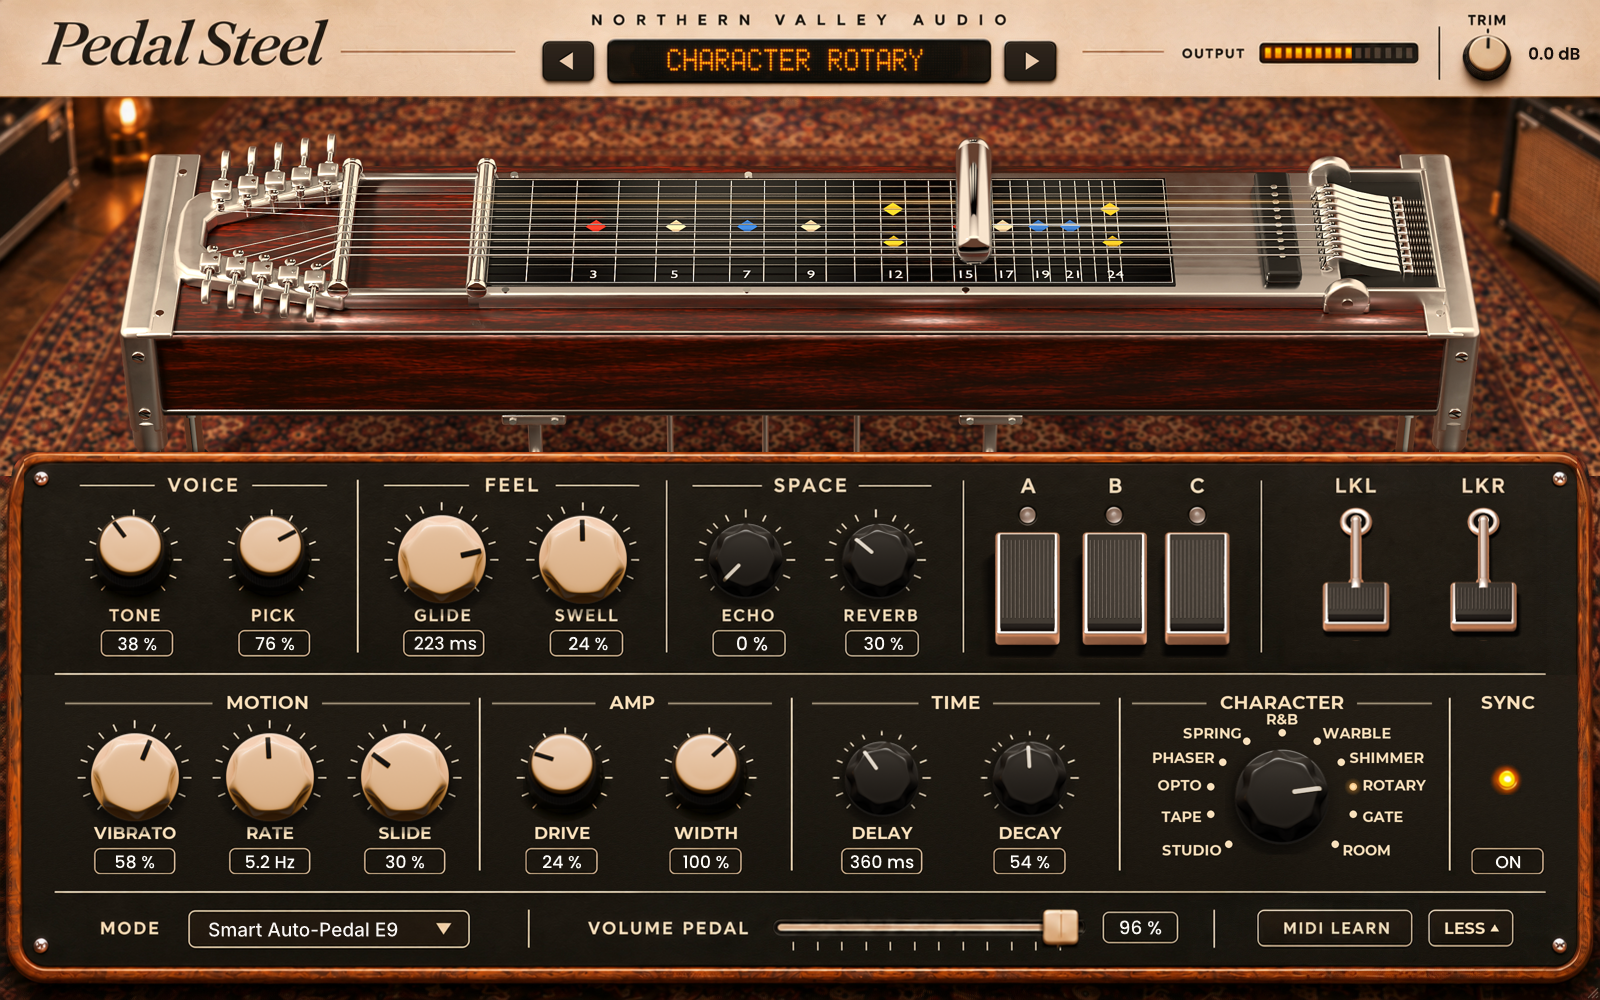
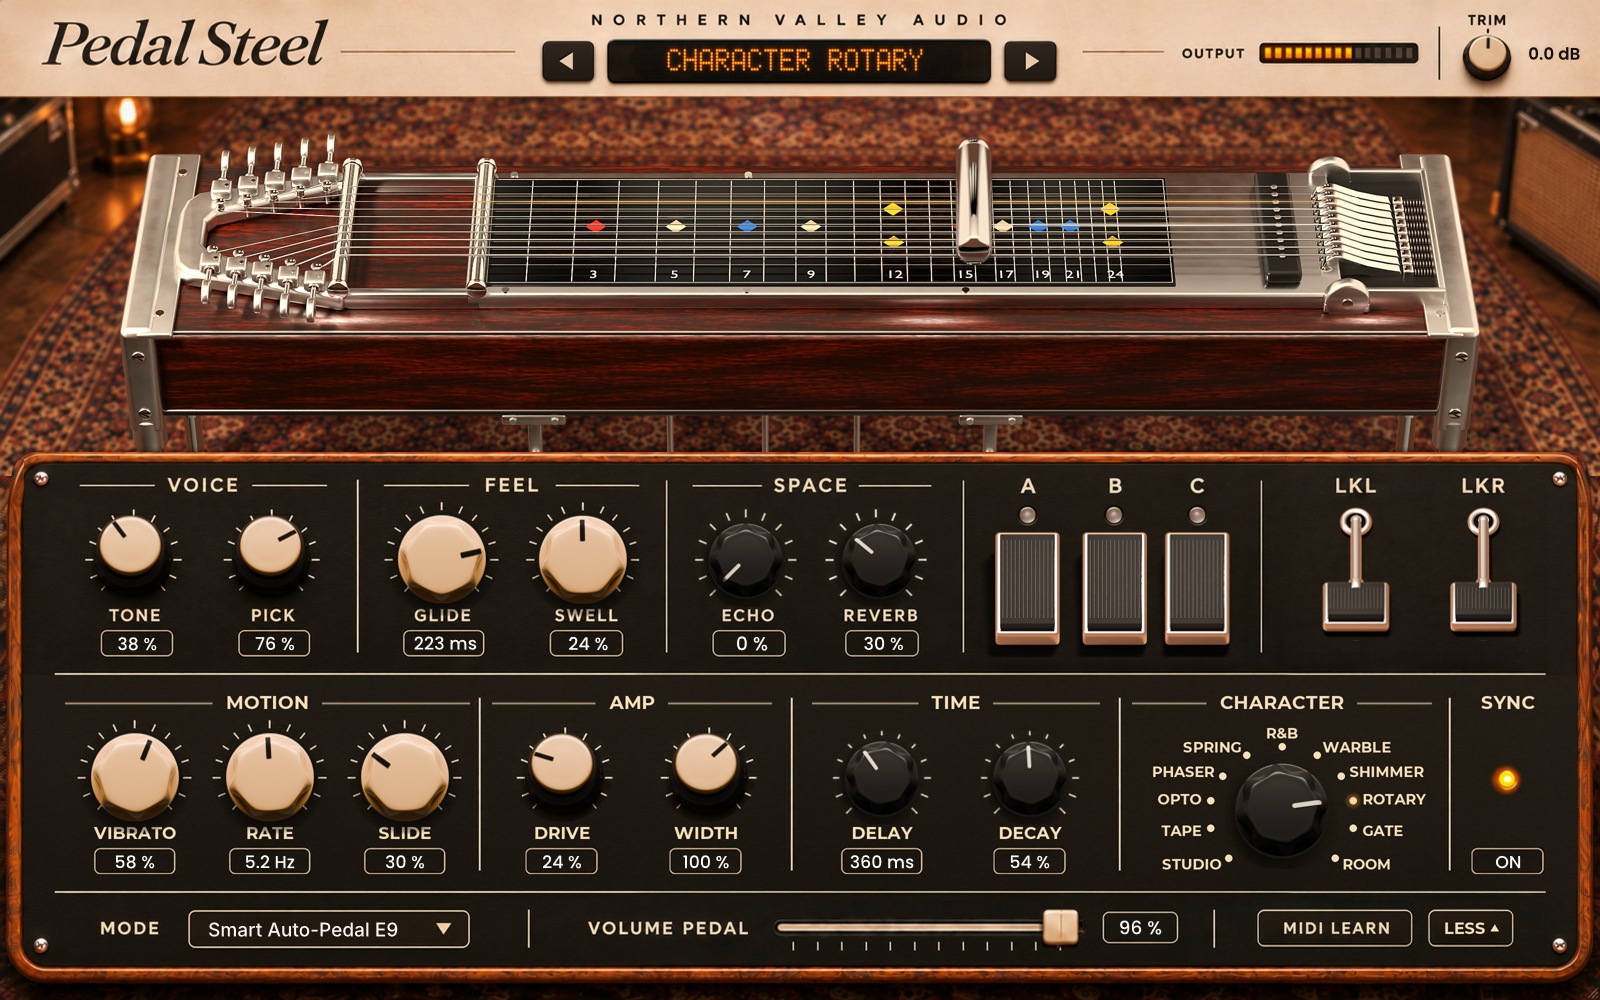
CHARACTER group lowered 14 px so the smaller knob, its spots and names sit centred in the row (Joshua)

Changed region(s): [[0.7188, 0.713, 0.9062, 0.868]]

diff --git a/Source/UiLayout.h b/Source/UiLayout.h
@@ -153,7 +153,7 @@ namespace UiLayout {
     inline constexpr float hitMore[4] = { 1428.00f, 908.50f, 87.00f, 39.50f };   // x, y, w, h
     inline constexpr float moreD = 218.00f, moreDeckTop = 421.00f, moreFrameTop = 452.00f, moreTopBand = 55.00f;   // UI px: row-1 lift; deck_more_top.png starts here, then deck_more.jpg (to 1000); its walnut frame's top
     inline constexpr float row2X[7] = { 135.0f, 270.0f, 405.0f, 562.0f, 706.0f, 882.0f, 1030.0f };   // VIBRATO RATE SLIDE (scallop) DRIVE WIDTH (dome) DELAY DECAY (space)
-    inline constexpr float charCentre[2] = { 1282.00f, 798.00f }, charScale = 1.120f, charDotR = 65.5f;
+    inline constexpr float charCentre[2] = { 1282.00f, 812.00f }, charScale = 1.120f, charDotR = 65.5f;
     inline constexpr float charAngle[11] = { -131.0f, -103.0f, -81.0f, -59.0f, -32.0f, 0.0f, 32.0f, 59.0f, 81.0f, 103.0f, 131.0f };   // deg clockwise from 12 o'clock, STUDIO..ROOM
     inline constexpr float charRadius[11] = { 70.5f, 73.0f, 72.0f, 69.0f, 66.7f, 65.5f, 66.7f, 69.0f, 72.0f, 73.0f, 70.5f };   // UI px from the centre to each spot's dot
     inline constexpr float syncCentre[2] = { 1508.00f, 780.00f }, lampACentre[2] = { 1028.00f, 733.50f };

diff --git a/design/ui_v2/final/parts/more_deck.py b/design/ui_v2/final/parts/more_deck.py
@@ -49,7 +49,7 @@ R2 = {   # name: (kind, cx_ui)
     "DELAY": ("space", 882), "DECAY": ("space", 1030),
 }
 CHAR_CX_UI, CHAR_SCALE = 1282, 1.12   # the knob as big as the concept's (k11_5: ~110 UI px across; the workshop SPACE knob is 42 px in radius)
-CHAR_CY_UI, CHAR_R_UI = 798, 70.0     # knob centre row, dot radius (measured on k11_5)
+CHAR_CY_UI, CHAR_R_UI = 812, 70.0     # knob centre row, dot radius (measured on k11_5)
 SYNC_CX_UI = 1508
 DIVS_UI = (480, 792, 1120, 1450)
 TITLES = (("MOTION", 65, 470), ("AMP", 492, 772), ("TIME", 812, 1100), ("CHARACTER", 1132, 1432))
